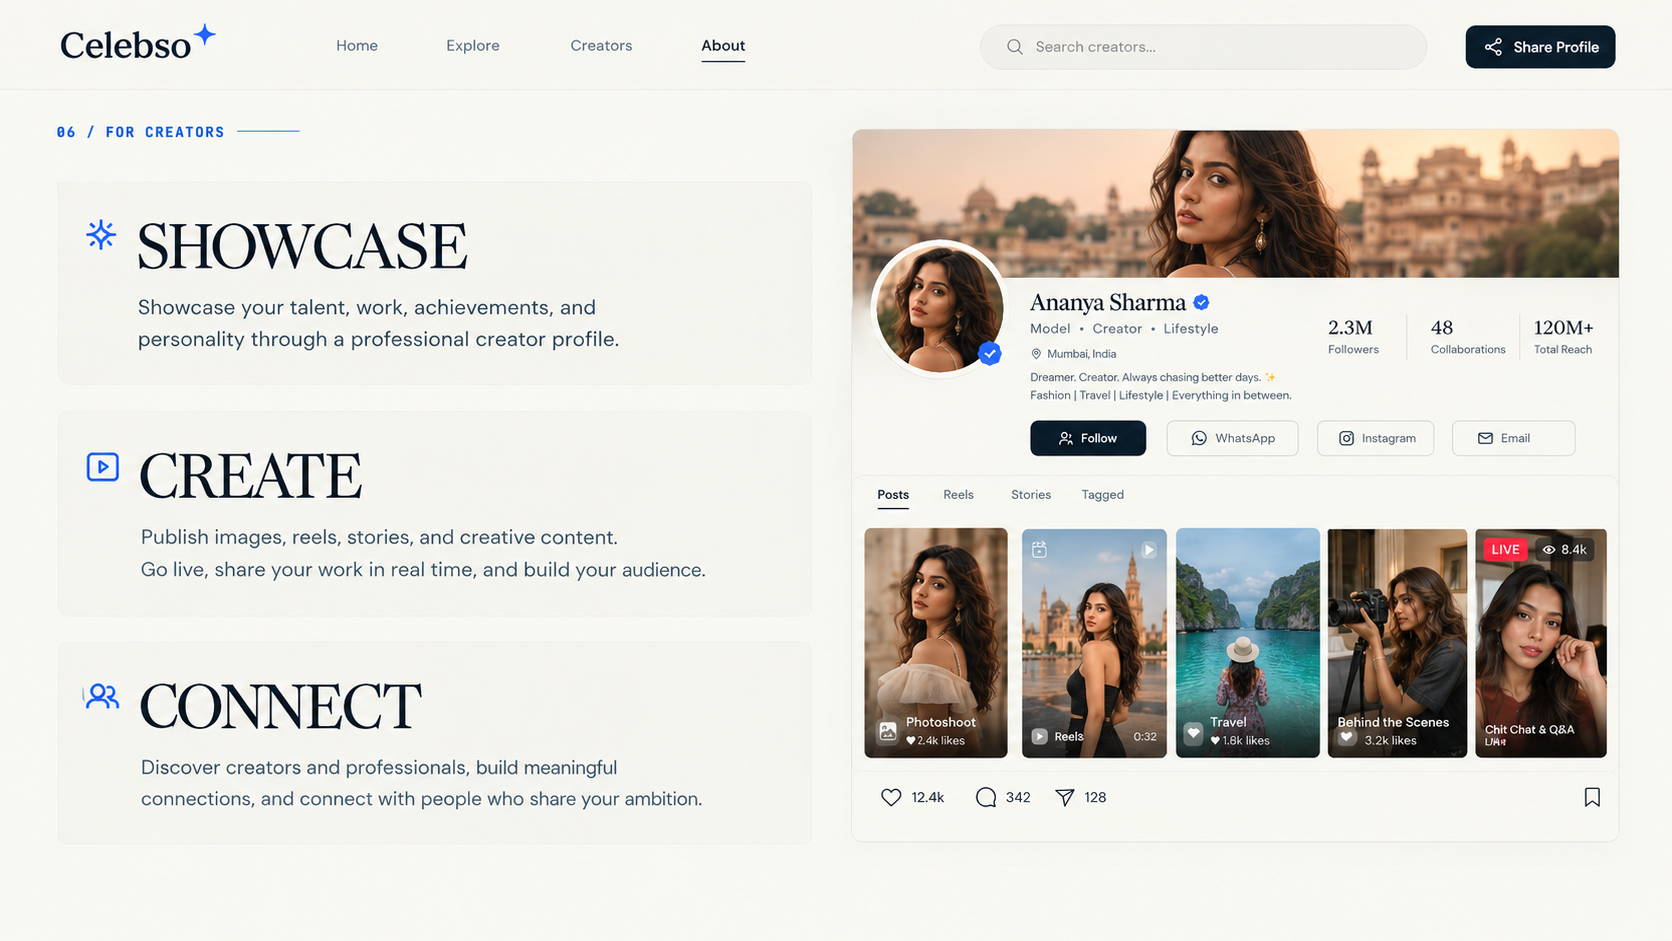
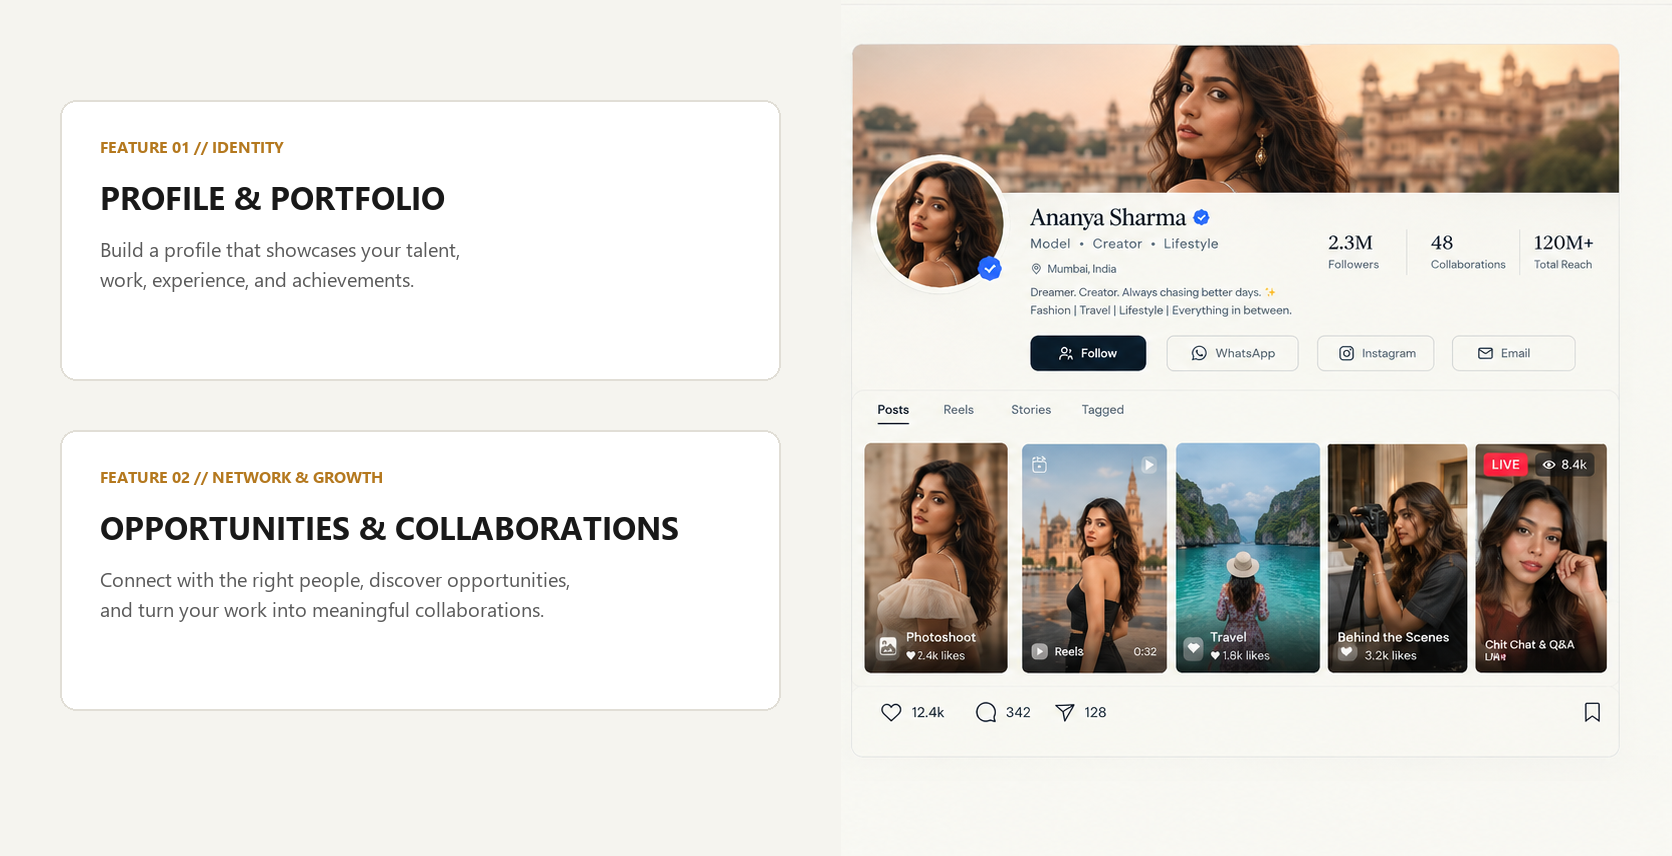
Update Section 05 with ss2 panels and Section 06 showcase card without header

diff --git a/index.html b/index.html
@@ -1015,208 +1015,11 @@
 
 <!-- 3 Dramatic Dark Visual Panels -->
 
-<div class="grid grid-cols-1 lg:grid-cols-3 gap-8">
-
-<!-- Panel 1: Profile -->
-
-<div class="bg-primary-container p-8 lg:p-10 rounded-lg shadow-xl flex flex-col justify-between group hover:bg-surface-container-highest/10 transition-colors">
-
-<div>
-
-<div class="flex items-center justify-between pb-6 mb-6">
-
-<span class="font-label-sm text-label-sm uppercase tracking-widest text-secondary-fixed">PANEL 01 // IDENTITY</span>
-
-<span class="font-label-sm text-label-sm uppercase tracking-wider text-on-primary-container font-mono">4K DOSSIER</span>
-
+<!-- 3 Dramatic Visual Panels from PDF Page 2 (ss2: SHOWCASE, CREATE, CONNECT) -->
+<div class="relative w-full rounded-2xl overflow-hidden shadow-2xl bg-black border border-white/15 group">
+  <img src="assets/hero_panels.png" alt="The Celebso Experience — Showcase, Create, Connect" class="w-full h-auto object-cover rounded-2xl group-hover:scale-[1.01] transition-transform duration-700"/>
 </div>
-
-<h3 class="font-headline-lg text-headline-lg text-on-primary mb-4">PROFILE</h3>
-
-<p class="font-body-md text-body-md text-on-primary-container leading-relaxed mb-8">
-
-              Showcase your talent, works, and verified achievements with museum-grade digital curation. Escape low-fidelity vertical streams for pure, uncompressed visual resolution.
-
-            </p>
-
-<!-- Graphic Element: Mock Portfolio Layout Frame -->
-
-<div class="w-full h-32 bg-surface-container-highest/10 rounded p-3 flex flex-col justify-between">
-
-<div class="flex items-center justify-between text-xs text-on-primary-container font-mono">
-
-<span>GRID: ARCHITECTURAL 12-COL</span>
-
-<span>ASPECT: RATIO 16:9</span>
-
 </div>
-
-<div class="grid grid-cols-3 gap-2">
-
-<div class="h-14 bg-surface-container-highest/20 rounded"></div>
-
-<div class="h-14 bg-secondary-fixed-variant/40 rounded"></div>
-
-<div class="h-14 bg-surface-container-highest/20 rounded"></div>
-
-</div>
-
-</div>
-
-</div>
-
-<div class="mt-8 pt-4 flex items-center justify-between font-label-sm text-label-sm text-on-primary-container uppercase tracking-wider">
-
-<span>UNCOMPRESSED MEDIA</span>
-
-<span class="text-secondary-fixed group-hover:translate-x-1 transition-transform">DETAILS →</span>
-
-</div>
-
-</div>
-
-<!-- Panel 2: Live -->
-
-<div class="bg-primary-container p-8 lg:p-10 rounded-lg shadow-xl flex flex-col justify-between group hover:bg-surface-container-highest/10 transition-colors">
-
-<div>
-
-<div class="flex items-center justify-between pb-6 mb-6">
-
-<span class="font-label-sm text-label-sm uppercase tracking-widest text-secondary-fixed">PANEL 02 // BROADCAST</span>
-
-<span class="font-label-sm text-label-sm uppercase tracking-wider text-on-primary-container font-mono">ULTRA-LOW LATENCY</span>
-
-</div>
-
-<h3 class="font-headline-lg text-headline-lg text-on-primary mb-4">LIVE</h3>
-
-<p class="font-body-md text-body-md text-on-primary-container leading-relaxed mb-8">
-
-              Share, engage, and grow your audience through studio-grade live broadcasts. Built-in interactive Q&amp;A sessions, ticketed salon streams, and multi-director stages.
-
-            </p>
-
-<!-- Graphic Element: Frequency Waveform -->
-
-<div class="w-full h-32 bg-surface-container-highest/10 rounded p-3 flex flex-col justify-between">
-
-<div class="flex items-center justify-between text-xs text-on-primary-container font-mono">
-
-<span>STREAM: 1080P60 LOSSLESS</span>
-
-<span class="text-error font-semibold animate-pulse">● REC LIVE</span>
-
-</div>
-
-<div class="flex items-end gap-1 h-16 w-full px-2">
-
-<span class="w-1/12 h-6 bg-secondary rounded-t"></span>
-
-<span class="w-1/12 h-12 bg-secondary rounded-t"></span>
-
-<span class="w-1/12 h-8 bg-secondary rounded-t"></span>
-
-<span class="w-1/12 h-14 bg-secondary rounded-t"></span>
-
-<span class="w-1/12 h-10 bg-secondary rounded-t"></span>
-
-<span class="w-1/12 h-16 bg-secondary-fixed rounded-t"></span>
-
-<span class="w-1/12 h-11 bg-secondary rounded-t"></span>
-
-<span class="w-1/12 h-15 bg-secondary rounded-t"></span>
-
-<span class="w-1/12 h-7 bg-secondary rounded-t"></span>
-
-<span class="w-1/12 h-13 bg-secondary rounded-t"></span>
-
-<span class="w-1/12 h-9 bg-secondary rounded-t"></span>
-
-<span class="w-1/12 h-5 bg-secondary rounded-t"></span>
-
-</div>
-
-</div>
-
-</div>
-
-<div class="mt-8 pt-4 flex items-center justify-between font-label-sm text-label-sm text-on-primary-container uppercase tracking-wider">
-
-<span>TICKETED ACCESS ENGINE</span>
-
-<span class="text-secondary-fixed group-hover:translate-x-1 transition-transform">DETAILS →</span>
-
-</div>
-
-</div>
-
-<!-- Panel 3: Community -->
-
-<div class="bg-primary-container p-8 lg:p-10 rounded-lg shadow-xl flex flex-col justify-between group hover:bg-surface-container-highest/10 transition-colors">
-
-<div>
-
-<div class="flex items-center justify-between pb-6 mb-6">
-
-<span class="font-label-sm text-label-sm uppercase tracking-widest text-secondary-fixed">PANEL 03 // GUILD</span>
-
-<span class="font-label-sm text-label-sm uppercase tracking-wider text-on-primary-container font-mono">INVITE &amp; CURATED</span>
-
-</div>
-
-<h3 class="font-headline-lg text-headline-lg text-on-primary mb-4">COMMUNITY</h3>
-
-<p class="font-body-md text-body-md text-on-primary-container leading-relaxed mb-8">
-
-              Connect with practitioners who honor your creative ambitions and industry standards. Join sovereign circles by discipline, city, and collaborative intent.
-
-            </p>
-
-<!-- Graphic Element: Network Node Visual -->
-
-<div class="w-full h-32 bg-surface-container-highest/10 rounded p-3 flex flex-col justify-between">
-
-<div class="flex items-center justify-between text-xs text-on-primary-container font-mono">
-
-<span>CIRCLES: ARCH / CINEMA / UX</span>
-
-<span>PEERS: 2,490</span>
-
-</div>
-
-<div class="flex items-center justify-around py-3">
-
-<div class="w-8 h-8 rounded-full bg-secondary-fixed text-primary flex items-center justify-center font-bold text-xs">MUM</div>
-
-<span class="w-6 h-[1px] bg-on-primary-container"></span>
-
-<div class="w-8 h-8 rounded-full bg-surface text-primary flex items-center justify-center font-bold text-xs">BLR</div>
-
-<span class="w-6 h-[1px] bg-on-primary-container"></span>
-
-<div class="w-8 h-8 rounded-full bg-tertiary-fixed text-primary flex items-center justify-center font-bold text-xs">DEL</div>
-
-</div>
-
-</div>
-
-</div>
-
-<div class="mt-8 pt-4 flex items-center justify-between font-label-sm text-label-sm text-on-primary-container uppercase tracking-wider">
-
-<span>CIRCULAR CONTRACTS</span>
-
-<span class="text-secondary-fixed group-hover:translate-x-1 transition-transform">DETAILS →</span>
-
-</div>
-
-</div>
-
-</div>
-
-</div>
-
 </section>
 
 <!-- SECTION 06: FOR CREATORS -->
